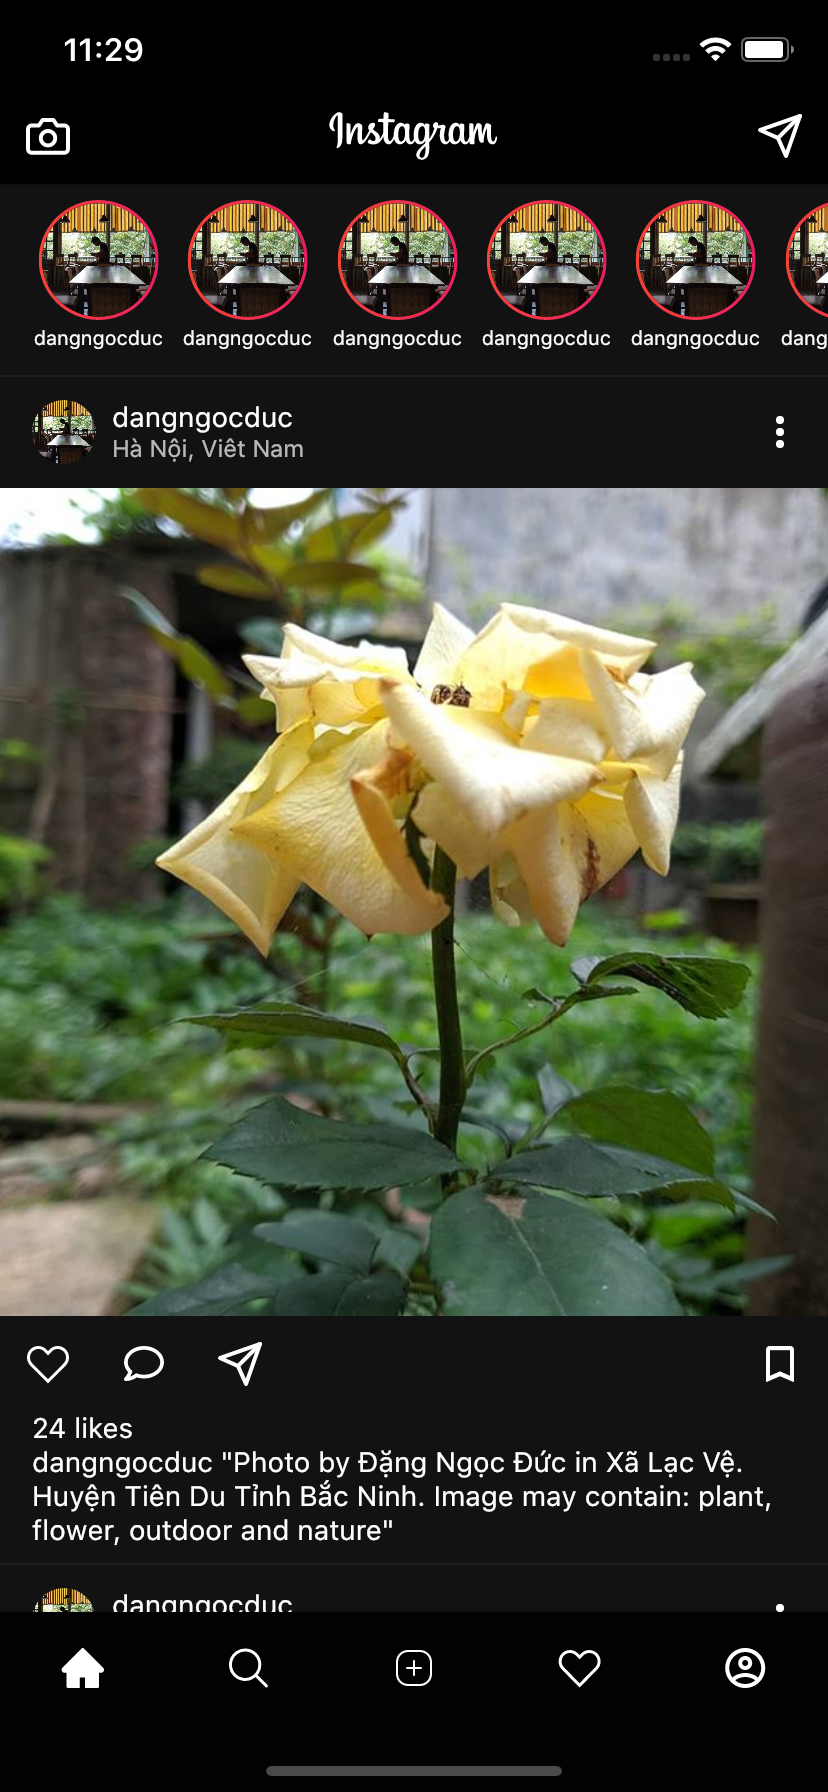
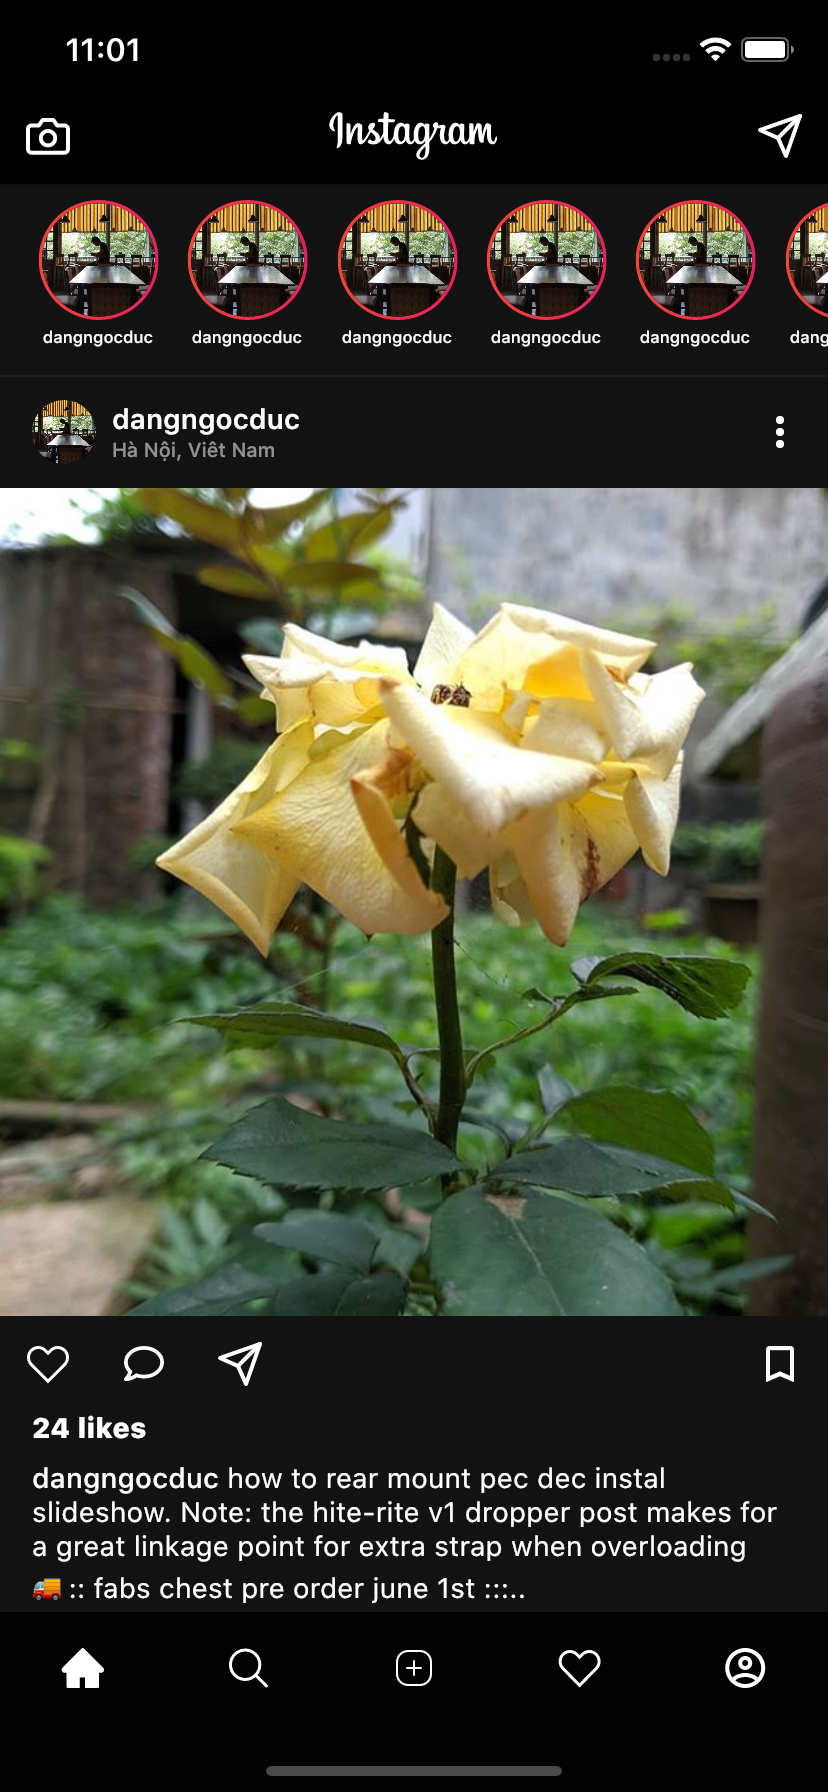
[DEV] Update UI Home, Activity

diff --git a/lib/features/activity/activity_item_widget.dart b/lib/features/activity/activity_item_widget.dart
@@ -4,37 +4,50 @@ import 'dart:developer' as developer;
 class ActivityItemWidget extends StatelessWidget {
   @override
   Widget build(BuildContext context) {
-    return Container(
-      padding: EdgeInsets.symmetric(
-        vertical: 8,
-        horizontal: 16
-      ),
-      child: Row(
-        children: <Widget>[
-          CircleAvatar(
-            maxRadius: 16,
-            backgroundImage: NetworkImage('https://scontent-hkg4-1.cdninstagram.com/v/t51.2885-19/s150x150/75223535_449897509288875_4922685218806038528_n.jpg?_nc_ht=scontent-hkg4-1.cdninstagram.com&_nc_ohc=GyxSNoKXAS8AX_2Hl-b&oh=cf60815eb1effb8d4cc7e68dfc3d844e&oe=5EE2BB7C'),
+    return Material(
+      color: Theme.of(context).cardColor,
+      child: InkWell(
+        child: Container(
+          padding: EdgeInsets.symmetric(
+              vertical: 4,
+              horizontal: 16
           ),
-          Expanded(child: Container(
-            padding: EdgeInsets.symmetric(
-              horizontal: 8
-            ),
-            child: RichText(text: TextSpan(
-              children: [
-                TextSpan(text: 'dangngocduc', style: Theme.of(context).textTheme.bodyText2),
-                TextSpan(text: ' mentioned you in a comment: @dangngocduc mua he den roi', style: Theme.of(context).textTheme.bodyText2)
-              ]
-            ))
-          )),
-          Container(
-            width: 56,
-              height: 56,
-            decoration: BoxDecoration(
-              image: DecorationImage(image: AssetImage('assets/sample/search_demo1.jpg'), fit: BoxFit.cover)
-            ),
-          )
-        ],
-      ),
+          child: Row(
+            children: <Widget>[
+              CircleAvatar(
+                maxRadius: 16,
+                backgroundImage: NetworkImage('https://scontent-hkg4-1.cdninstagram.com/v/t51.2885-19/s150x150/75223535_449897509288875_4922685218806038528_n.jpg?_nc_ht=scontent-hkg4-1.cdninstagram.com&_nc_ohc=GyxSNoKXAS8AX_2Hl-b&oh=cf60815eb1effb8d4cc7e68dfc3d844e&oe=5EE2BB7C'),
+              ),
+              Expanded(child: Container(
+                  padding: EdgeInsets.symmetric(
+                      horizontal: 8
+                  ),
+                  child: RichText(text: TextSpan(
+                      children: [
+                        TextSpan(text: 'ronsbikes, dangngocduc and world_wildlife', style: Theme.of(context).textTheme.subtitle2),
+                        TextSpan(text: ' Liked your photo.', style: Theme.of(context).textTheme.bodyText2),
+                        TextSpan(text: ' 2h', style: Theme.of(context).textTheme.bodyText2.copyWith(
+                            color: Theme.of(context).colorScheme.onBackground.withOpacity(0.56)
+                        ))
+                      ]
+                  ))
+              )),
+              Container(
+                width: 56,
+                height: 56,
+                decoration: ShapeDecoration(
+                    image: DecorationImage(image: AssetImage('assets/sample/search_demo1.jpg'), fit: BoxFit.cover),
+                    shape: RoundedRectangleBorder(
+                        borderRadius: BorderRadius.all(Radius.circular(4))
+                    )
+                ),
+              )
+            ],
+          ),
+        ),
+        onTap: () {
+        },
+      )
     );
   }
 }

diff --git a/lib/application.dart b/lib/application.dart
@@ -30,11 +30,10 @@ class _ApplicationState extends State<Application> {
         accentIconTheme: IconThemeData(
           color: Colors.black
         ),
-        appBarTheme: AppBarTheme(
-          brightness: Brightness.light,
-          iconTheme: IconThemeData(
+        primaryColorBrightness: Brightness.light,
+        primaryColorDark: Colors.black87,
+        primaryIconTheme: IconThemeData(
             color: Colors.black
-          )
         ),
         primaryTextTheme: ThemeData.light().textTheme,
         brightness: Brightness.light,
@@ -44,7 +43,13 @@ class _ApplicationState extends State<Application> {
         colorScheme: ColorScheme.light(
             onPrimary: Colors.black
         ),
-
+        textTheme: ThemeData.light().textTheme.copyWith(
+          caption: ThemeData.light().textTheme.caption.copyWith(
+            color: Colors.black54,
+            fontSize: 10,
+            fontWeight: FontWeight.w500
+          )
+        )
       ),
       darkTheme: ThemeData.dark().copyWith(
         primaryColor: Colors.black,
@@ -59,6 +64,13 @@ class _ApplicationState extends State<Application> {
         scaffoldBackgroundColor: Color(0xFF121212),
         colorScheme: ColorScheme.dark(
           onPrimary: Colors.white
+        ),
+        textTheme: ThemeData.dark().textTheme.copyWith(
+            caption: ThemeData.dark().textTheme.caption.copyWith(
+                color: Colors.white54,
+                fontSize: 10,
+                fontWeight: FontWeight.w500
+            )
         )
       ),
       themeMode: ThemeMode.system,

diff --git a/lib/widgets/feed/info_widget.dart b/lib/widgets/feed/info_widget.dart
@@ -12,8 +12,28 @@ class InfoWidget extends StatelessWidget {
         mainAxisSize: MainAxisSize.min,
         crossAxisAlignment: CrossAxisAlignment.start,
         children: <Widget>[
-          Text('24 likes'),
-          Text('dangngocduc \"Photo by Đặng Ngọc Đức in Xã Lạc Vệ. Huyện Tiên Du Tỉnh Bắc Ninh. Image may contain: plant, flower, outdoor and nature\"')
+          DefaultTextStyle(
+              style: Theme.of(context).textTheme.subtitle2.copyWith(
+                fontWeight: FontWeight.w800
+              ),
+              child: Text('24 likes')),
+          Container(
+            width: double.infinity,
+            padding: EdgeInsets.only(
+              top: 8,
+            ),
+            child: RichText(
+              text: TextSpan(
+                children: [
+                  TextSpan(text: 'dangngocduc', style: Theme.of(context).textTheme.subtitle2),
+                  TextSpan(text: ' how to rear mount pec dec instal slideshow. Note: the hite-rite v1 dropper post makes for a great linkage point for extra strap when overloading 🚚 :: fabs chest pre order june 1st :::..',
+                      style: Theme.of(context).textTheme.subtitle2.copyWith(
+                        fontWeight: FontWeight.w400
+                      ))
+                ]
+              ),
+            ),
+          )
         ],
       ),
     );

diff --git a/lib/widgets/feed/header_widget.dart b/lib/widgets/feed/header_widget.dart
@@ -26,7 +26,11 @@ class HeaderWidget extends StatelessWidget {
                 mainAxisSize: MainAxisSize.min,
                 crossAxisAlignment: CrossAxisAlignment.start,
                 children: <Widget>[
-                  Text('dangngocduc', style: Theme.of(context).textTheme.bodyText2,),
+                  DefaultTextStyle(
+                      style: Theme.of(context).textTheme.bodyText2.copyWith(
+                        fontWeight: FontWeight.w600
+                      ),
+                      child: Text('dangngocduc'),),
                   Text('Hà Nội, Viêt Nam', style: Theme.of(context).textTheme.caption,)
                 ],
               ),

diff --git a/lib/features/activity/activity_page.dart b/lib/features/activity/activity_page.dart
@@ -14,13 +14,17 @@ class _ActivityPageState extends State<ActivityPage> {
   @override
   Widget build(BuildContext context) {
     return Scaffold(
+      backgroundColor: Colors.white,
       appBar: AppBar(
         title: Text('Activity'),
       ),
-      body: ListView.builder(
-        itemBuilder: (context, index) => ActivityItemWidget(),
-        itemCount: 20,
-      ),
+      body: RefreshIndicator(
+          child: ListView.builder(
+            physics: BouncingScrollPhysics(),
+            itemBuilder: (context, index) => ActivityItemWidget(),
+            itemCount: 20,
+          ),
+          onRefresh: () async {}),
     );
   }
 }

diff --git a/instagram_datasource/test/instagramdatasource_test.dart b/instagram_datasource/test/instagramdatasource_test.dart
@@ -1,0 +1,13 @@
+import 'package:flutter_test/flutter_test.dart';
+
+import 'package:instagramdatasource/instagramdatasource.dart';
+
+void main() {
+  test('adds one to input values', () {
+    final calculator = Calculator();
+    expect(calculator.addOne(2), 3);
+    expect(calculator.addOne(-7), -6);
+    expect(calculator.addOne(0), 1);
+    expect(() => calculator.addOne(null), throwsNoSuchMethodError);
+  });
+}

diff --git a/instagram_datasource/lib/instagramdatasource.dart b/instagram_datasource/lib/instagramdatasource.dart
@@ -1,0 +1,7 @@
+library instagramdatasource;
+
+/// A Calculator.
+class Calculator {
+  /// Returns [value] plus 1.
+  int addOne(int value) => value + 1;
+}

diff --git a/README.md b/README.md
@@ -3,9 +3,9 @@
 # Build Release
 [Releases APK](https://github.com/dangngocduc/instagram_flutter/releases)
 
-|Demo | Demo |
-|----|:----|
-|![](./demo/home_page_dark.png)|![](./demo/home_page_light.png)|
-|![](./demo/search_page_dark.png)|![](./demo/search_page_light.png)|
+|Demo | Demo | Demo | Demo |
+|:----|:----|:----|:----|
+|![](./demo/home_page_dark.png)|![](./demo/home_page_light.png)|![](./demo/activity_page_dark.png)|![](./demo/activity_page_light.png)|
+|![](./demo/search_page_dark.png)|![](./demo/search_page_light.png)|![](./demo/home_page_light.png)|![](./demo/home_page_light.png)|
 
 

diff --git a/instagram_datasource/README.md b/instagram_datasource/README.md
@@ -1,0 +1,14 @@
+# instagramdatasource
+
+A new Flutter package.
+
+## Getting Started
+
+This project is a starting point for a Dart
+[package](https://flutter.dev/developing-packages/),
+a library module containing code that can be shared easily across
+multiple Flutter or Dart projects.
+
+For help getting started with Flutter, view our 
+[online documentation](https://flutter.dev/docs), which offers tutorials, 
+samples, guidance on mobile development, and a full API reference.

diff --git a/instagram_datasource/CHANGELOG.md b/instagram_datasource/CHANGELOG.md
@@ -1,0 +1,3 @@
+## [0.0.1] - TODO: Add release date.
+
+* TODO: Describe initial release.
